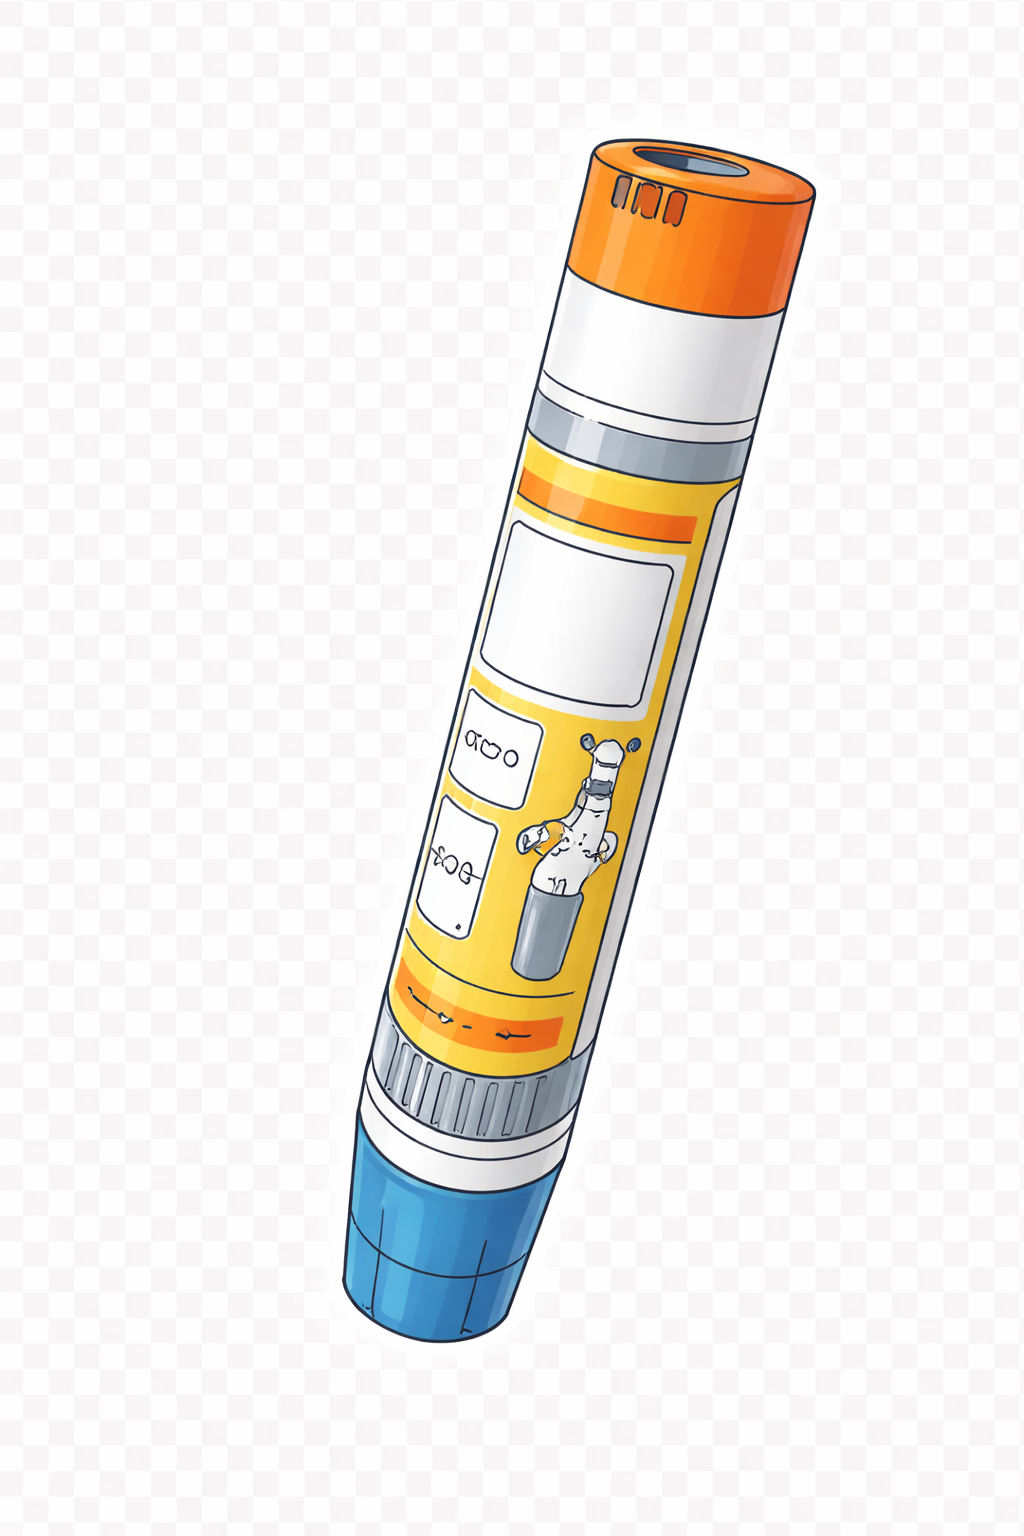
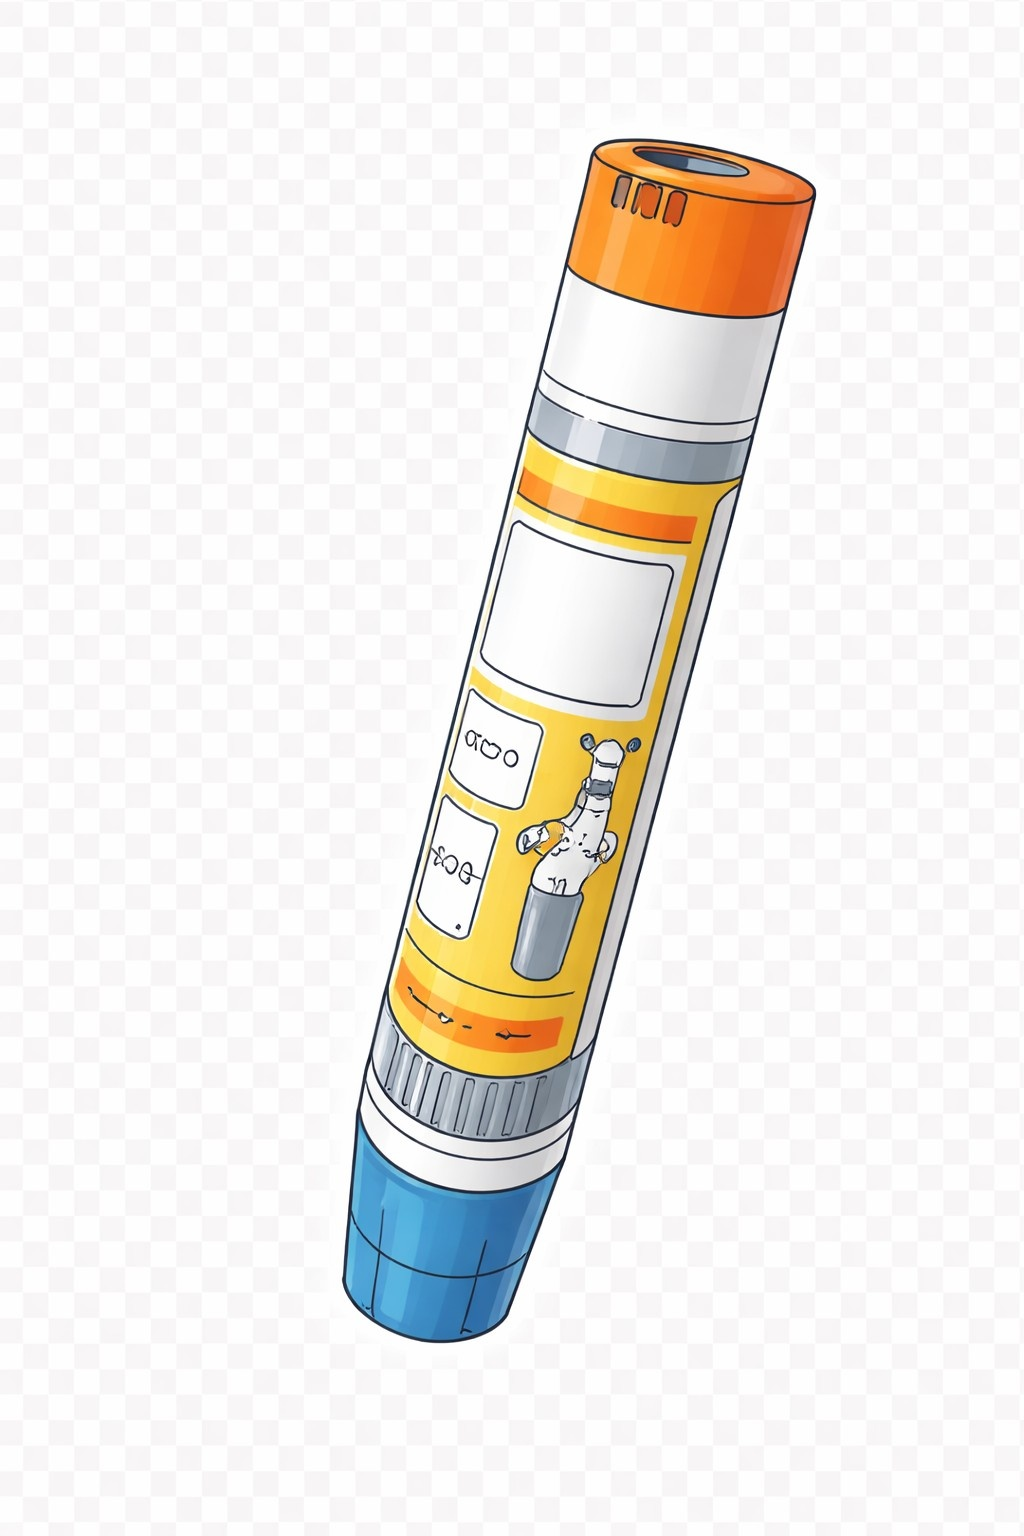
SavingBigChanges

diff --git a/js/scenes/PatientScene.js b/js/scenes/PatientScene.js
@@ -7,7 +7,7 @@ class PatientScene extends Phaser.Scene {
     
     preload() {
         this.load.image("ReloadButton", "img/ReloadButton.png");
-        this.load.image("PatientCloseUp", "img/PatientCloseUp.png");
+        this.load.image("PatientCloseUp", "img/PatientCloseUp.jpeg");
         this.load.image("Arrow", "img/Arrow.png");
     }
     
@@ -45,7 +45,7 @@ class PatientScene extends Phaser.Scene {
         const borderHeight = 1080 * scale;
 
         // Background
-                this.sceneBorder = this.add.graphics();
+        this.sceneBorder = this.add.graphics();
         this.sceneBorder.lineStyle(1, 0xffffff, 0.8);
         this.sceneBorder.strokeRect(
             centerX - borderWidth / 2,
@@ -54,11 +54,51 @@ class PatientScene extends Phaser.Scene {
             borderHeight
         );
 
-        this.sceneBorder.fillStyle(0x000055, 1);
+        this.sceneBorder.fillStyle(0x2c3e50, 1);
         this.sceneBorder.fillRoundedRect(centerX - borderWidth / 2,
             centerY - borderHeight / 2,
             borderWidth,
             borderHeight,
+            0
+        );
+
+        // Rettangolo in alto - scala anche l'altezza
+        const topBarHeight = 40 * scale;
+        const topTextSpace = this.add.graphics();
+        topTextSpace.fillStyle(0xffffff, 1);
+        topTextSpace.fillRoundedRect(
+            centerX - borderWidth / 2,
+            centerY - borderHeight / 2,
+            borderWidth,
+            topBarHeight,
+            0
+        );
+        topTextSpace.lineStyle(2 * scale, 0x000000, 1);
+        topTextSpace.strokeRoundedRect(
+            centerX - borderWidth / 2,
+            centerY - borderHeight / 2,
+            borderWidth,
+            topBarHeight,
+            0
+        );
+
+        // Rettangolo in basso - posizione corretta
+        const bottomBarHeight = 40 * scale;
+        const bottomTextSpace = this.add.graphics();
+        bottomTextSpace.fillStyle(0xffffff, 1);
+        bottomTextSpace.fillRoundedRect(
+            centerX - borderWidth / 2,
+            centerY + borderHeight / 2 - bottomBarHeight,
+            borderWidth,
+            bottomBarHeight,
+            0
+        );
+        bottomTextSpace.lineStyle(2 * scale, 0x000000, 1);
+        bottomTextSpace.strokeRoundedRect(
+            centerX - borderWidth / 2,
+            centerY + borderHeight / 2 - bottomBarHeight,
+            borderWidth,
+            bottomBarHeight,
             0
         );
 
@@ -273,17 +313,30 @@ class PatientScene extends Phaser.Scene {
     }
 
     showError() {
-        // Feedback visivo per errore
-        const errorText = this.add.text(
-            this.coords.answer1.x, 
-            this.coords.answer1.y - 100, 
-            "Sequenza sbagliata!", {
-            fontSize: `${Math.max(18, 40 * Math.min(this.scale.width / 1920, this.scale.height / 1080))}px`,
-            color: "#e74c3c",
-            align: "center",
-            fontFamily: "Poppins",
-            fontStyle: "bold",
-        }).setOrigin(0.5);
+        const width = this.scale.width;
+    const height = this.scale.height;
+    const centerX = width / 2;
+    const centerY = height / 2;
+    
+    const scale = Math.min(width / 1920, height / 1080);
+    const borderHeight = 1080 * scale;
+    const bottomBarHeight = 40 * scale;
+    
+    // Calcola la posizione Y al centro del rettangolo in basso
+    const bottomBarCenterY = centerY + borderHeight / 2 - bottomBarHeight / 2;
+    
+    // Feedback visivo per errore
+    const errorText = this.add.text(
+        centerX, 
+        bottomBarCenterY, 
+        "Sequenza sbagliata!", {
+        fontSize: `${Math.max(18, 40 * scale)}px`,
+        color: "#e74c3c",
+        align: "center",
+        fontFamily: "Poppins",
+        fontStyle: "bold",
+        resolution: 2
+    }).setOrigin(0.5);
 
         this.time.delayedCall(2000, () => {
             errorText.destroy();

diff --git a/js/scenes/CartScene.js b/js/scenes/CartScene.js
@@ -18,10 +18,10 @@ class CartScene extends Phaser.Scene {
     pickedNacl = false;
 
     preload() {
-        this.load.image("Cart", "img/Cart.png");
+        this.load.image("Cart", "img/Cart.jpeg");
         this.load.image("Elettrocardiogramma", "img/Elettrocardiogramma.png");
         this.load.image("Adrenalina", "img/Adrenalina.png");
-        this.load.image("Nacl", "img/Nacl.png");
+        this.load.image("Nacl", "img/Nacl.jpeg");
         this.load.image("Sfondo", "img/Mattone.png");
     }
 
